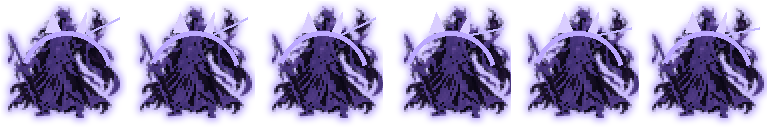
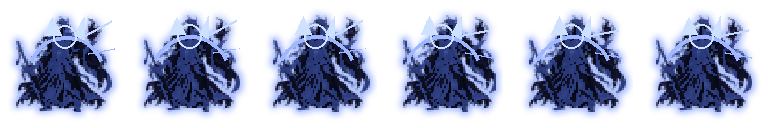
Differentiate final layer boss sprites

diff --git a/tools/generate_layer6_10_character_assets.py b/tools/generate_layer6_10_character_assets.py
@@ -157,14 +157,14 @@ BOSSES = {
     },
     "jiuyoumozun": {
         "base": "assets/characters/bosses/tianmojiaozhu",
-        "palette": ("#080611", "#32214f", "#d1c6ff", "#8868ff"),
-        "glow": "#8868ff",
+        "palette": ("#050712", "#17214a", "#b8d6ff", "#4f77ff"),
+        "glow": "#4f77ff",
         "theme": "demon_lord",
     },
     "wangumoshen": {
         "base": "assets/characters/bosses/tianmojiaozhu",
-        "palette": ("#03040a", "#251d3b", "#f0cc72", "#6e5cff"),
-        "glow": "#6e5cff",
+        "palette": ("#030303", "#32100c", "#f0c566", "#b51f18"),
+        "glow": "#b51f18",
         "theme": "ancient_god",
     },
 }
@@ -193,6 +193,33 @@ def upsize_to_128(fr):
     return out
 
 
+def center_scale(frame, factor):
+    if factor == 1:
+        return frame
+    size = max(1, int(frame.width * factor))
+    small = frame.resize((size, size), Image.Resampling.NEAREST)
+    out = Image.new("RGBA", frame.size, (0, 0, 0, 0))
+    out.alpha_composite(small, ((frame.width - size) // 2, frame.height - size - 4))
+    return out
+
+
+def fit_alpha_margin(frame, margin=6):
+    bbox = frame.getchannel("A").getbbox()
+    if not bbox:
+        return frame
+    max_w = frame.width - margin * 2
+    max_h = frame.height - margin * 2
+    bw = bbox[2] - bbox[0]
+    bh = bbox[3] - bbox[1]
+    scale = min(1.0, max_w / bw, max_h / bh)
+    cropped = frame.crop(bbox)
+    if scale < 1:
+        cropped = cropped.resize((max(1, int(bw * scale)), max(1, int(bh * scale))), Image.Resampling.NEAREST)
+    out = Image.new("RGBA", frame.size, (0, 0, 0, 0))
+    out.alpha_composite(cropped, ((frame.width - cropped.width) // 2, frame.height - margin - cropped.height))
+    return out
+
+
 def boss_marks(fr, theme, phase=0):
     d = ImageDraw.Draw(fr)
     if theme == "ghost_king":
@@ -208,16 +235,22 @@ def boss_marks(fr, theme, phase=0):
         d.polygon([(84, 38), (108, 24), (78, 50)], fill=rgba("#e3cf83", 220))
         d.arc((18, 24, 110, 118), 205, 335, fill=rgba("#a8e36d", 130), width=4)
     elif theme == "demon_lord":
-        d.polygon([(45, 32), (52, 12), (62, 34)], fill=rgba("#d5c8ff", 225))
-        d.polygon([(75, 32), (86, 12), (84, 38)], fill=rgba("#d5c8ff", 225))
-        d.arc((21, 31, 112, 121), 198, 345, fill=rgba("#9474ff", 160), width=5)
-        d.line((84, 35, 119, 18 + phase), fill=rgba("#b6a8ff", 210), width=3)
+        d.polygon([(43, 34), (51, 15), (61, 35)], fill=rgba("#c8ddff", 225))
+        d.polygon([(74, 34), (84, 15), (84, 39)], fill=rgba("#c8ddff", 225))
+        d.arc((25, 35, 106, 116), 202, 338, fill=rgba("#5f89ff", 155), width=4)
+        d.line((82, 36, 113, 20 + phase), fill=rgba("#b9d2ff", 215), width=3)
+        d.line((89, 53, 116, 48 + phase), fill=rgba("#6c91ff", 165), width=2)
+        d.ellipse((52, 24, 76, 48), outline=rgba("#9fc1ff", 125), width=2)
     elif theme == "ancient_god":
-        d.polygon([(54, 28), (64, 8), (74, 28), (69, 39), (59, 39)], fill=rgba("#f0cc72", 235))
-        d.ellipse((47, 20, 82, 55), outline=rgba("#806dff", 175), width=3)
-        d.arc((12, 19, 118, 124), 185, 355, fill=rgba("#6e5cff", 175), width=6)
-        d.line((21, 99, 8, 120), fill=rgba("#f0cc72", 145), width=3)
-        d.line((108, 98, 121, 120), fill=rgba("#f0cc72", 145), width=3)
+        d.ellipse((22, 17, 106, 105), outline=rgba("#d9a83d", 135), width=5)
+        d.ellipse((35, 29, 93, 91), outline=rgba("#7d1614", 155), width=4)
+        d.polygon([(47, 33), (56, 13), (64, 31), (73, 13), (83, 34), (68, 45), (58, 43)], fill=rgba("#f0c566", 235))
+        d.polygon([(33, 50), (15, 43), (37, 68)], fill=rgba("#d9a83d", 185))
+        d.polygon([(91, 50), (113, 35 + phase), (95, 69)], fill=rgba("#8d1c16", 205))
+        d.line((76, 58, 113, 82 + phase), fill=rgba("#f0c566", 205), width=4)
+        d.line((79, 61, 110, 104), fill=rgba("#8d1c16", 170), width=3)
+        d.line((24, 95, 14, 114), fill=rgba("#d9a83d", 125), width=3)
+        d.line((103, 92, 114, 112), fill=rgba("#d9a83d", 125), width=3)
     return fr
 
 
@@ -226,12 +259,17 @@ def boss_frames(boss_id, anim):
     frames = [upsize_to_128(fr) for fr in split_sheet(f"{cfg['base']}/{anim}.png")]
     out = []
     for i, fr in enumerate(frames):
+        if cfg["theme"] in ("demon_lord", "ancient_god"):
+            fr = center_scale(fr, 0.9)
         fr = recolor(fr, *[rgba(c) for c in cfg["palette"]], strength=0.88)
         fr = alpha_glow(fr, rgba(cfg["glow"]), radius=3, strength=110)
         if cfg["theme"] == "ancient_god":
-            fr = alpha_glow(fr, rgba("#f0cc72"), radius=1, strength=70)
+            fr = alpha_glow(fr, rgba("#f0c566"), radius=1, strength=82)
         phase = 10 if anim == "attack" and i >= len(frames) // 2 else 0
-        out.append(boss_marks(fr, cfg["theme"], phase))
+        fr = boss_marks(fr, cfg["theme"], phase)
+        if cfg["theme"] in ("demon_lord", "ancient_god"):
+            fr = fit_alpha_margin(fr, 6)
+        out.append(fr)
     return out
 
 
